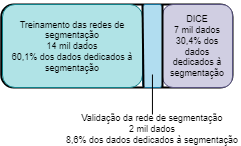
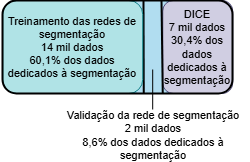
Atualiza figuras e metodologia no readme

diff --git a/projetos/PulmoNet/README.md b/projetos/PulmoNet/README.md
@@ -38,9 +38,8 @@ oferecida no segundo semestre de 2024, na Unicamp, sob supervisão da Profa. Dra
 8. [Referências Bibliográficas](#referências-bibliográficas)
 
 **ANEXOS**:
-1. [Varredura dos parâmetros da GAN para 10 mil dados](#varredura-dos-parâmetros-da-gan-para-10-mil-dados)
-2. [Testes adicionais com outras arquiteturas](#testes-adicionais-com-outras-arquiteturas)
-3. [Como rodar os modelos](#how-to-run)
+1. [Testes adicionais com outras arquiteturas](#testes-adicionais-com-outras-arquiteturas)
+2. [Como rodar os modelos](#how-to-run)
 
 ## Links Importantes
 Links para apresentações de slides e vídeos para entregas E1, E2 e E3 para a disciplina:
@@ -51,7 +50,7 @@ Links para apresentações de slides e vídeos para entregas E1, E2 e E3 para a 
 
 [Link para a apresentação de slides E2](https://docs.google.com/presentation/d/1QH5_WpeTp7kQPSVB78ukK7msn-Tx09pZoM_3dWmeqC4/edit?usp=sharing)
 
-> TODO: link E3
+[Link para a apresentação de slides E3](https://docs.google.com/presentation/d/1YcYpWPjaEHAoT9k7YVTDgA9t4VoGU5SL2fJ26_SG3ok/edit?usp=sharing)
 
 ## Resumo (Abstract)
 
@@ -215,6 +214,12 @@ A figura abaixo exemplifica as diferentes entradas no gerador a depender do ruí
 
 *Figura 11: Exemplos de entradas com diferentes tipos e níveis de ruídos.*
 
+Outro ponto interessante que merece ser mencionado é a variação dos passos de atualização do gerador e do discriminador.
+Um problema típico de treinamento de GANs é a velocidade de aprendizado em diferentes ritmos do gerador e do discriminador, isto é, uma destas redes pode aprender mais rápido do que a outra, resultando em uma baixa qualidade na tarefa de síntese.
+Uma estratégia para tentar solucionar este problema é a variação na taxa de atualização dos pesos neurais, por exemplo: o gerador é atualizado a cada iteração ao passo que o discriminador é atualizado a cada três iterações.
+
+Ademais, ressalta-se que a variação do *learning rate* diz respeito apenas ao valor inicial, dado que este parâmetro é ajustado linearmente após 10 épocas de treinamento.
+
 Esta varredura inicial é feita com apenas 10 mil dados e analisada no conjunto de testes de maneira qualitativa (análise subjetiva dos alunos quanto aos resultados) e quantitativa (cálculo das métricas FID e SSIM).
 A partir desta análise inicial, seleciona-se três modelos para prosseguir com o treinamento com todos os dados disponíveis.
 Ressalta-se que, dadas as restrições de tempo e capacidade computacional, não foram testadas todas as combinações de parâmetros da tabela acima. Com apoio da ferramenta Weights & Biases, combinou-se aleatoriamente estes parâmetros em quinze modelos, conforme será apresentado na seção [Resultados preliminares com 10 mil dados de treinamento da GAN](#resultados-preliminares-com-10-mil-dados-de-treinamento-da-gan).
@@ -278,11 +283,21 @@ No caso do cálculo do SSIM, como o foco do projeto está associado com uma boa 
 #### Análise de Utilidade
 Dado que o objetivo do projeto é gerar imagens sintéticas (2D) de CTs pulmonares realistas, avalia-se nesta etapa duas perspectivas. A primeira delas trata da segmentação das fatias sintéticas por meio da biblioteca *lungmask* e comparação desta saída com a máscara binária original que gerou esta imagem sintética. Isto é feito para avaliar se o gerador conseguiu manter o formato do pulmão original ou algo próximo a isso. Utiliza-se o SSIM para comparação destas duas fatias pulmonares segmentadas.
 
-Já a segunda perspectiva trata da utilidade do gerador, em termos de **feature extraction**. Isto é, tomando como inspiração a abordagem explorada em [[9]](#9), implementaremos uma U-Net, com a mesma estrutura da rede geradora Pix2Pix da PulmoNet, para realizar a segmentação das vias aéreas e compararemos o desempenho desta U-Net com uma outra rede que utiliza as *features* extraídas pelo nosso gerador. Esta comparação será avaliada ao comparar as saídas com a própria segmentação presente na base de dados ATM'22, feita por especialistas. Além disso, será calculado o coeficiente DICE (obtido a partir da precisão e *recall* da predição), tomando como referência o artigo [[2]](#2), e considera-se também calcular o tempo de processamento das redes U-Net inicializada com pesos aleatórios e a U-Net com *features* extraídos pela nossa Pix2Pix, a fim de verificar se também há uma otimização neste quesito.
+Já a segunda perspectiva trata da utilidade do gerador, em termos de **transfer learning**. Isto é, tomando como inspiração a abordagem explorada em [[9]](#9), implementaremos uma rede similar à U-Net, com a mesma estrutura da rede geradora Pix2Pix da PulmoNet, para realizar a segmentação das vias aéreas e compararemos o desempenho desta U-Net com uma outra rede que utiliza o aprendizado do nosso gerador.
+Para isto, coloca-se na entrada da rede de segmentação imagens completas de pulmões e compara-se as saídas geradas pela U-Net com a própria segmentação presente na base de dados ATM'22 feita por especialistas, conforme ilustrado no fluxograma abaixo.
+A seleção entre o tipo de modelo (inicialização aleatória ou pesos transferidos do nosso gerador) é definida em um arquivo YAML, bem como outros parâmetros de configuração.
+Para a avaliação de desempenho destas redes, calcula-se o coeficiente DICE (obtido a partir da precisão e *recall* da predição), tomando como referência o artigo [[2]](#2).
 
-Ressalta-se que foi escolhida como função de *loss* para esta tarefa a DICELoss, tipicamente utilizadas em tarefas de segmentação de imagens médicas [[12]](#12).
-Além disso, para aproveitar os pesos iniciais da GAN para a tarefa de segmentação, realiza-se o seguinte processo de *fine-tunning*: congela-se apenas a parte da rede codificadora do gerador, retreinando somente o decodificador. Com isso, espera-se demonstrar a capacidade de mapeamento da nossa GAN para um espaço latente adequado, que contenha informações acerca das vias aéreas e que tais informações ajudem a aprimorar esta tarefa.
+![Fluxo para treinamento da rede de segmentação de vias aérea para o teste de utilidade.](figs/workflow_unet.png?raw=true)
 
+*Figura 13: Fluxo para treinamento da rede de segmentação de vias aérea para o teste de utilidade.*
+
+Ressalta-se que foi escolhida como função de *loss* para esta tarefa a DiceLoss, tipicamente utilizadas em tarefas de segmentação de imagens médicas [[12]](#12).
+Além disso, para aproveitar os pesos iniciais da GAN para a tarefa de segmentação, realiza-se o seguinte processo de *transfer learning*: congela-se apenas a parte da rede codificadora do gerador, retreinando somente o decodificador (ilustração desta aquitetura na figura abaixo). Com isso, espera-se demonstrar a capacidade de mapeamento da nossa GAN para um espaço latente adequado, que contenha informações acerca das vias aéreas e que tais informações ajudem a aprimorar esta tarefa.
+
+![Arquitetura da rede de segmentação das vias aéreas. Modelo do gerador da PulmoNet com camadas congeladas na rede codificadora para a aplicação do transfer learning.](figs/UNET_ARQUITETURA.png?raw=true)
+
+*Figura 14: Arquitetura da rede de segmentação das vias aéreas. Modelo do gerador da PulmoNet com camadas congeladas na rede codificadora para a aplicação do transfer learning.*
 
 Por fim, é importante destacar o caminho a ser seguido para a avaliação da rede generativa para as saídas em 3D, caso seja possível implementá-las dentro do prazo do projeto. Para esta aplicação, geraríamos um volume sintético e passaríamos esta saída pela rede de segmentação *medpseg* [[10]](#10). Feito isso, compararíamos as vias aéreas segmentadas com o *ground-truth* estabelecido na própria base de dados ATM'22.
 
@@ -291,7 +306,7 @@ O projeto será implementado seguindo o seguinte fluxo lógico:
 
 ![Fluxo lógico das ativaidades para desenvolvimento da PulmoNet.](figs/fluxo_logico.png?raw=true)
 
-*Figura 13: Fluxo lógico das ativaidades para desenvolvimento da PulmoNet.*
+*Figura 15: Fluxo lógico das ativaidades para desenvolvimento da PulmoNet.*
 
 Dado este fluxo, estipulamos o seguinte cronograma para desenvolvimento do projeto:
 
